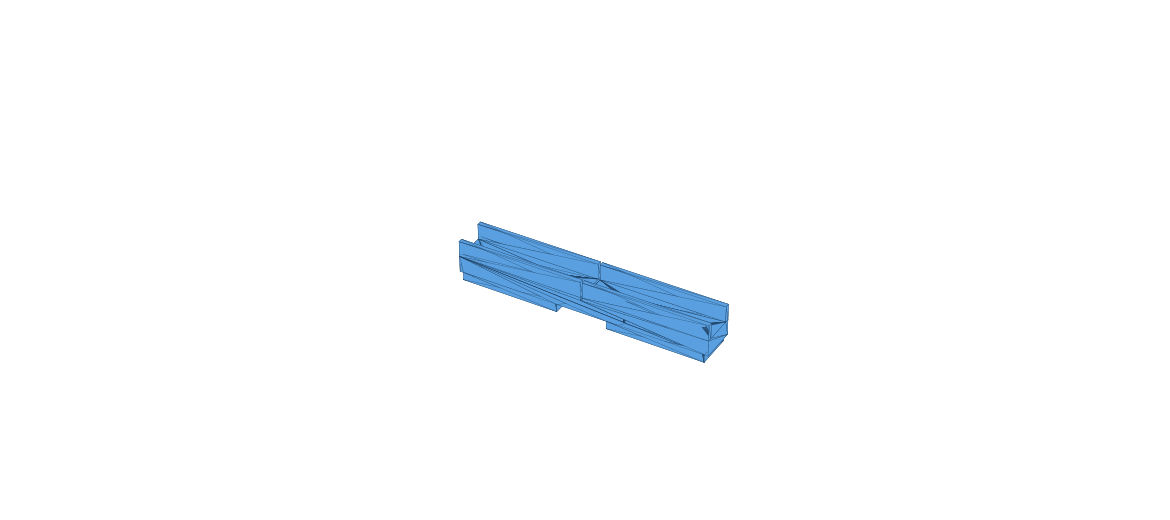
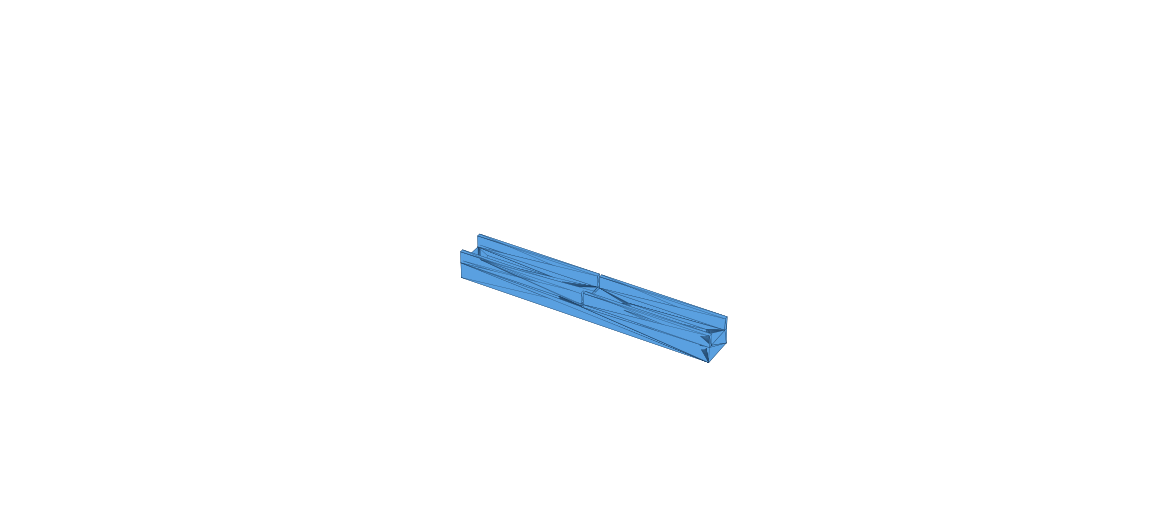
Joiners now use recessed M3 screws (no magnets at the seams, no spacers)
Claude-Session: https://claude.ai/code/session_01HYeaEYygyfgRPSDkpePvV6

Changed region(s): [[0.3692, 0.4308, 0.6462, 0.7077]]

diff --git a/hardware/panel_joiner.py b/hardware/panel_joiner.py
@@ -1,40 +1,34 @@
 # Bar ticker: 3D-printable joiner strap that holds two LED panels together across the seam.
-# Screws into each panel's brass M3 inserts. The holes are long slots, so the exact insert spacing
-# doesn't matter: anywhere from SLOT_NEAR to SLOT_FAR mm from the seam on each side will line up.
+# Held by 2 recessed M3 button-head screws (M3 x 6) into the panels' brass inserts. No magnets at these
+# inserts: the magnets go in the other inserts, straight into the panel, so they all sit at the same height.
+# The strap stays low (7 mm) so the steel bar passes over it on the magnets (~12 mm).
+# The holes are long slots, so the exact insert spacing doesn't matter (SLOT_NEAR..SLOT_FAR from the seam).
 # Use 2 per seam (top row of inserts + bottom row): 4 seams x 2 = 8 straps for 5 panels.
 import manifold3d as m, numpy as np, trimesh
 C, Cy = m.Manifold.cube, m.Manifold.cylinder
 def box(x0, y0, z0, x1, y1, z1): return C([x1 - x0, y1 - y0, z1 - z0]).translate([x0, y0, z0])
 def cyl(x, y, z0, h, d, n=48): return Cy(h, d / 2, d / 2, n).translate([x, y, z0])
-def slot(x0, x1, y, z0, h, d):                     # rounded slot along x
-    return box(x0, y - d / 2, z0, x1, y + d / 2, z0 + h) + cyl(x0, y, z0, h, d) + cyl(x1, y, z0, h, d)
+def slot(x0, x1, y, z0, h, d): return box(x0, y - d / 2, z0, x1, y + d / 2, z0 + h) + cyl(x0, y, z0, h, d) + cyl(x1, y, z0, h, d)
 
-L, W = 140.0, 20.0         # strap length (centered on the seam) and width
+L, W = 140.0, 18.0         # strap length (centered on the seam) and width
 T = 4.0                    # strap thickness
-PAD = 2.0                  # feet under the screw areas so the strap sits on the insert bosses, not the ribs
-RIB_H, RIB_W = 4.0, 2.4    # stiffening ribs along both edges
-SLOT_NEAR, SLOT_FAR = 20.0, 62.0   # slot range, measured from the seam
-SLOT_W = 3.4               # M3 clearance
-HEAD_W = 7.0               # room for the screw head / washer between the ribs
+FLOOR = 1.5                # plastic left under the screw head (so an M3 x 6 still gets ~4.5 mm of thread)
+RIB_H, RIB_W = 3.0, 2.0    # stiffening ribs along both edges (top ends at 7 mm, under the steel bar)
+SLOT_NEAR, SLOT_FAR = 20.0, 62.0
+SLOT_W, HEAD_W = 3.4, 6.2  # M3 clearance / button-head recess
 
-strap = box(-L / 2, -W / 2, PAD, L / 2, W / 2, PAD + T)
-for s in (-1, 1):          # feet under each slot area
-    a, b = sorted((s * (SLOT_NEAR - 6), s * (SLOT_FAR + 6)))
-    strap = strap + box(a, -W / 2, 0, b, W / 2, PAD)
-# edge ribs on top
+strap = box(-L / 2, -W / 2, 0, L / 2, W / 2, T)
 for y0 in (-W / 2, W / 2 - RIB_W):
-    strap = strap + box(-L / 2, y0, PAD + T, L / 2, y0 + RIB_W, PAD + T + RIB_H)
-# seam marker notch so it's easy to center over the joint
-strap = strap - box(-0.6, -W / 2 - 1, PAD + T - 0.8, 0.6, W / 2 + 1, PAD + T + RIB_H + 1)
-# screw slots
+    strap = strap + box(-L / 2, y0, T, L / 2, y0 + RIB_W, T + RIB_H)
+strap = strap - box(-0.6, -W / 2 - 1, T - 0.8, 0.6, W / 2 + 1, T + RIB_H + 1)      # seam marker
 for s in (-1, 1):
     a, b = sorted((s * SLOT_NEAR, s * SLOT_FAR))
-    strap = strap - slot(a, b, 0, -1, PAD + T + 2, SLOT_W)
+    strap = strap - slot(a, b, 0, -1, T + 2, SLOT_W)
+    strap = strap - slot(a, b, 0, FLOOR, T, HEAD_W)                                 # recess for the heads
 
 mesh = strap.to_mesh()
 tm = trimesh.Trimesh(vertices=np.array(mesh.vert_properties)[:, :3], faces=np.array(mesh.tri_verts))
 print("watertight:", tm.is_watertight, "size mm:", np.round(tm.extents, 1), "volume cm3:", round(tm.volume / 1000, 1))
-# print it upside down (ribs on the bed? no: flat top of the feet on the bed) - feet down is fine, no supports
 tm.export("ticker-panel-joiner.stl")
 
 import matplotlib; matplotlib.use("Agg")

diff --git a/hardware/back_layout.py b/hardware/back_layout.py
@@ -34,11 +34,16 @@ for k in range(1, N):
 # steel bars
 for ry in ROWS:
     ax.add_patch(Rectangle((32, ry - BAR_W / 2), W - 64, BAR_W, facecolor="#9aa3ad", edgecolor="#4b5560", lw=1, alpha=0.55, zorder=6))
-# magnets
+# joiner screws (recessed, no magnet) at the seams; magnets everywhere else
 for i in range(N):
     for ry in ROWS:
         for rx in ROW_X:
-            ax.add_patch(Circle((i * PW + rx, ry), 6.5, facecolor="#d94040", edgecolor="#701010", lw=0.8, zorder=7))
+            x = i * PW + rx
+            at_seam = (rx == ROW_X[0] and i > 0) or (rx == ROW_X[-1] and i < N - 1)
+            if at_seam:
+                ax.add_patch(Circle((x, ry), 3, facecolor="#f2f2f2", edgecolor="#333", lw=0.8, zorder=7))
+            else:
+                ax.add_patch(Circle((x, ry), 6.5, facecolor="#d94040", edgecolor="#701010", lw=0.8, zorder=7))
 # power supply + Pi (stand off the back on the steel bars / a back board)
 ps = FancyBboxPatch((PW * 1 + 50, 25), 215, 110, boxstyle="round,pad=1", facecolor="#c9ccd1", edgecolor="#555", lw=1.2, zorder=8)
 ax.add_patch(ps); ax.text(PW * 1 + 157, 80, "5V 30A\npower supply", ha="center", va="center", fontsize=10, zorder=9)
@@ -52,7 +57,7 @@ ax.text(PW * 2 + 160, 128, "Port 2 -> Panel 3 IN", ha="center", fontsize=8, colo
 ax.set_xlim(-60, W + 60); ax.set_ylim(PH + 45, -70)
 ax.set_title("Bar ticker - BACK view (Panel 1 is on the right from behind)    ~63\" x 6.3\" panels, 3/4\" wood frame", fontsize=13)
 legend = [("#5aa0e0", "printed joiner straps (8) + end brackets (2)"), ("#9aa3ad", "steel flat bar 1\" x 1/8\" x 60.5\" (2), held by magnets"),
-          ("#d94040", "M3 magnets in the brass inserts"), ("#c8955a", "wood frame (sides screw to the end-bracket flanges)")]
+          ("#d94040", "magnets (white dots = joiner screws)"), ("#c8955a", "wood frame (sides screw to the end-bracket flanges)")]
 for i, (c, t) in enumerate(legend):
     ax.add_patch(Rectangle((i * 420, -58), 22, 16, facecolor=c, edgecolor="#333"))
     ax.text(i * 420 + 30, -50, t, va="center", fontsize=10)

diff --git a/hardware/end_bracket.py b/hardware/end_bracket.py
@@ -1,4 +1,4 @@
-# Bar ticker: end bracket + magnet spacer.
+# Bar ticker: end bracket.
 # The end bracket screws into the single brass insert near each SHORT end of the end panels (about 12 mm in
 # from the edge, off-center), which is clear of the top/bottom insert rows where the steel bars and magnets go.
 # It gives a 90-degree flange flush with the panel's end edge for screwing on the wooden side boards.
@@ -36,10 +36,6 @@ for zc in (20.0, 36.0):
     part = part - Cy(FL_T + 2, 2.0, 2.0, 32).rotate([0, 90, 0]).translate([-1, 0, zc])
     part = part - Cy(2.4, 2.0, 4.2, 32).rotate([0, 90, 0]).translate([FL_T - 2.39, 0, zc])
 tm = save(part, "ticker-end-bracket.stl")
-
-# 2 mm spacer washer: under every magnet that is NOT going through a joiner strap,
-# so all the magnet faces line up and the steel bar sits flat.
-save(cyl(0, 0, 0, 2.0, 10.0, 64) - cyl(0, 0, -1, 4.0, 3.4, 32), "ticker-magnet-spacer.stl")
 
 import matplotlib; matplotlib.use("Agg")
 import matplotlib.pyplot as plt
